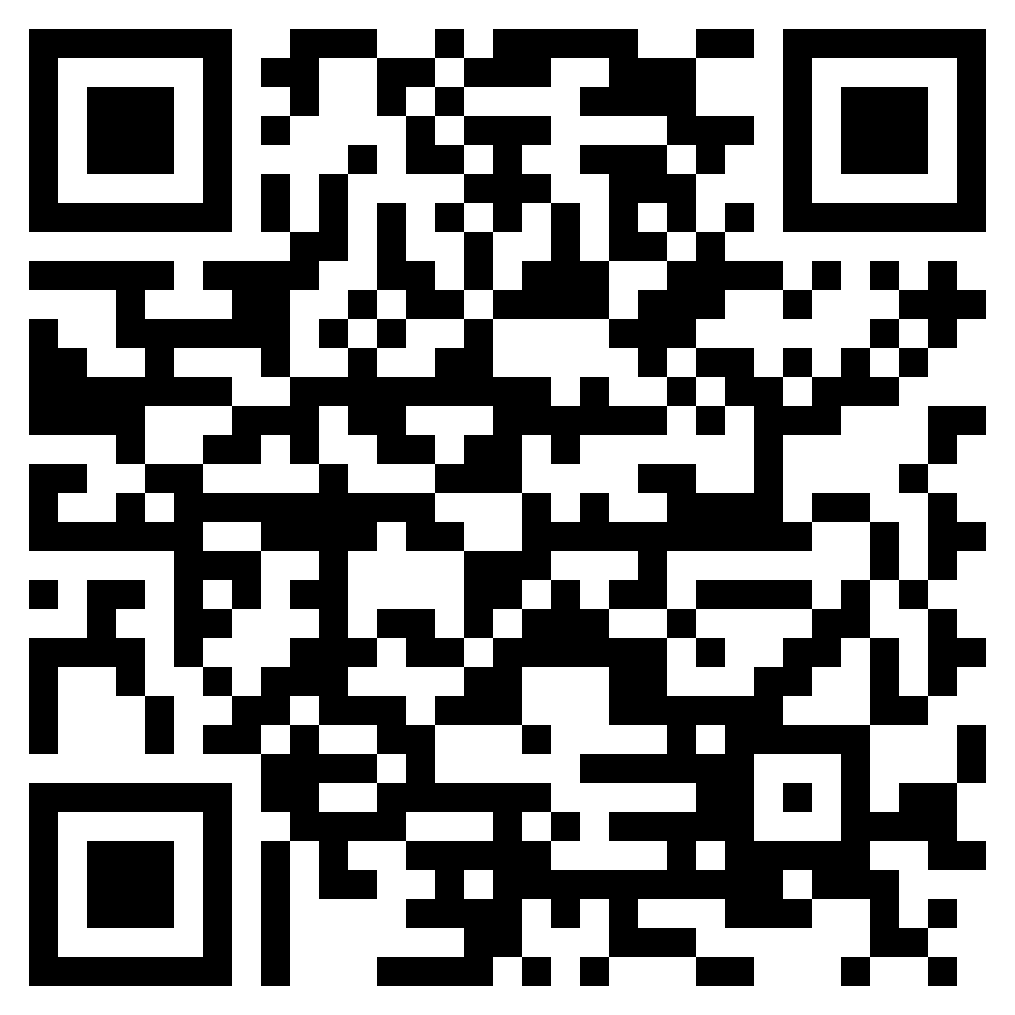
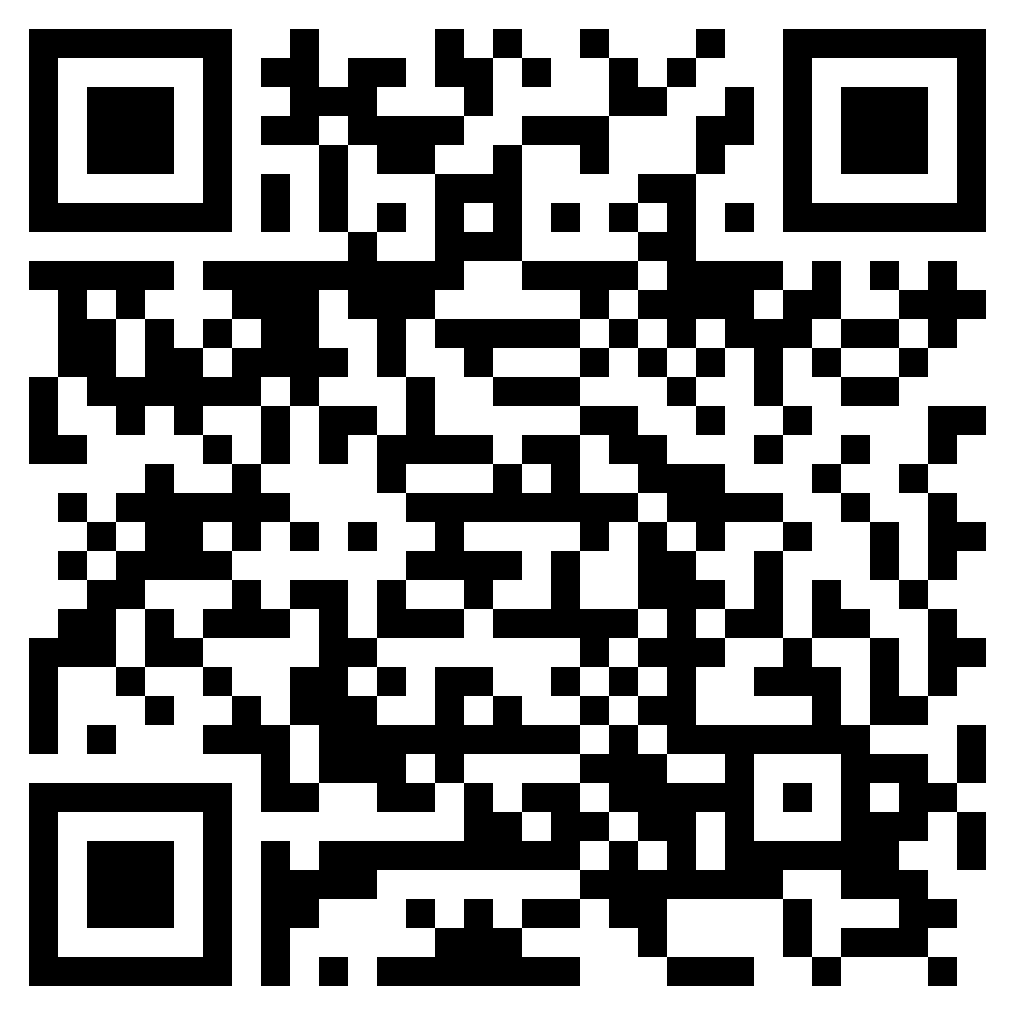
sdgh

diff --git a/index.html b/index.html
@@ -31,7 +31,7 @@
                             <label class="name"><b>JAYKKI KUMAR</b></label><br>
                             <label class="name"><b>Student All route AC/Non AC</b></label><br>
                             <label class="pass-number"><b>Bus Pass No. </b><b id="blink"
-                                    style="opacity: 0;">www.Home_e-Bus_Pass.com-dtcpass.delhi.gov.in-viewEPass89c8-75320123446969.html/styles.css</b></label><br>
+                                    style="opacity: 0;">75320123446969</b></label><br>
                             <script type="text/javascript">
                                 var blink = document.getElementById('blink');
                                 setInterval(function () {
